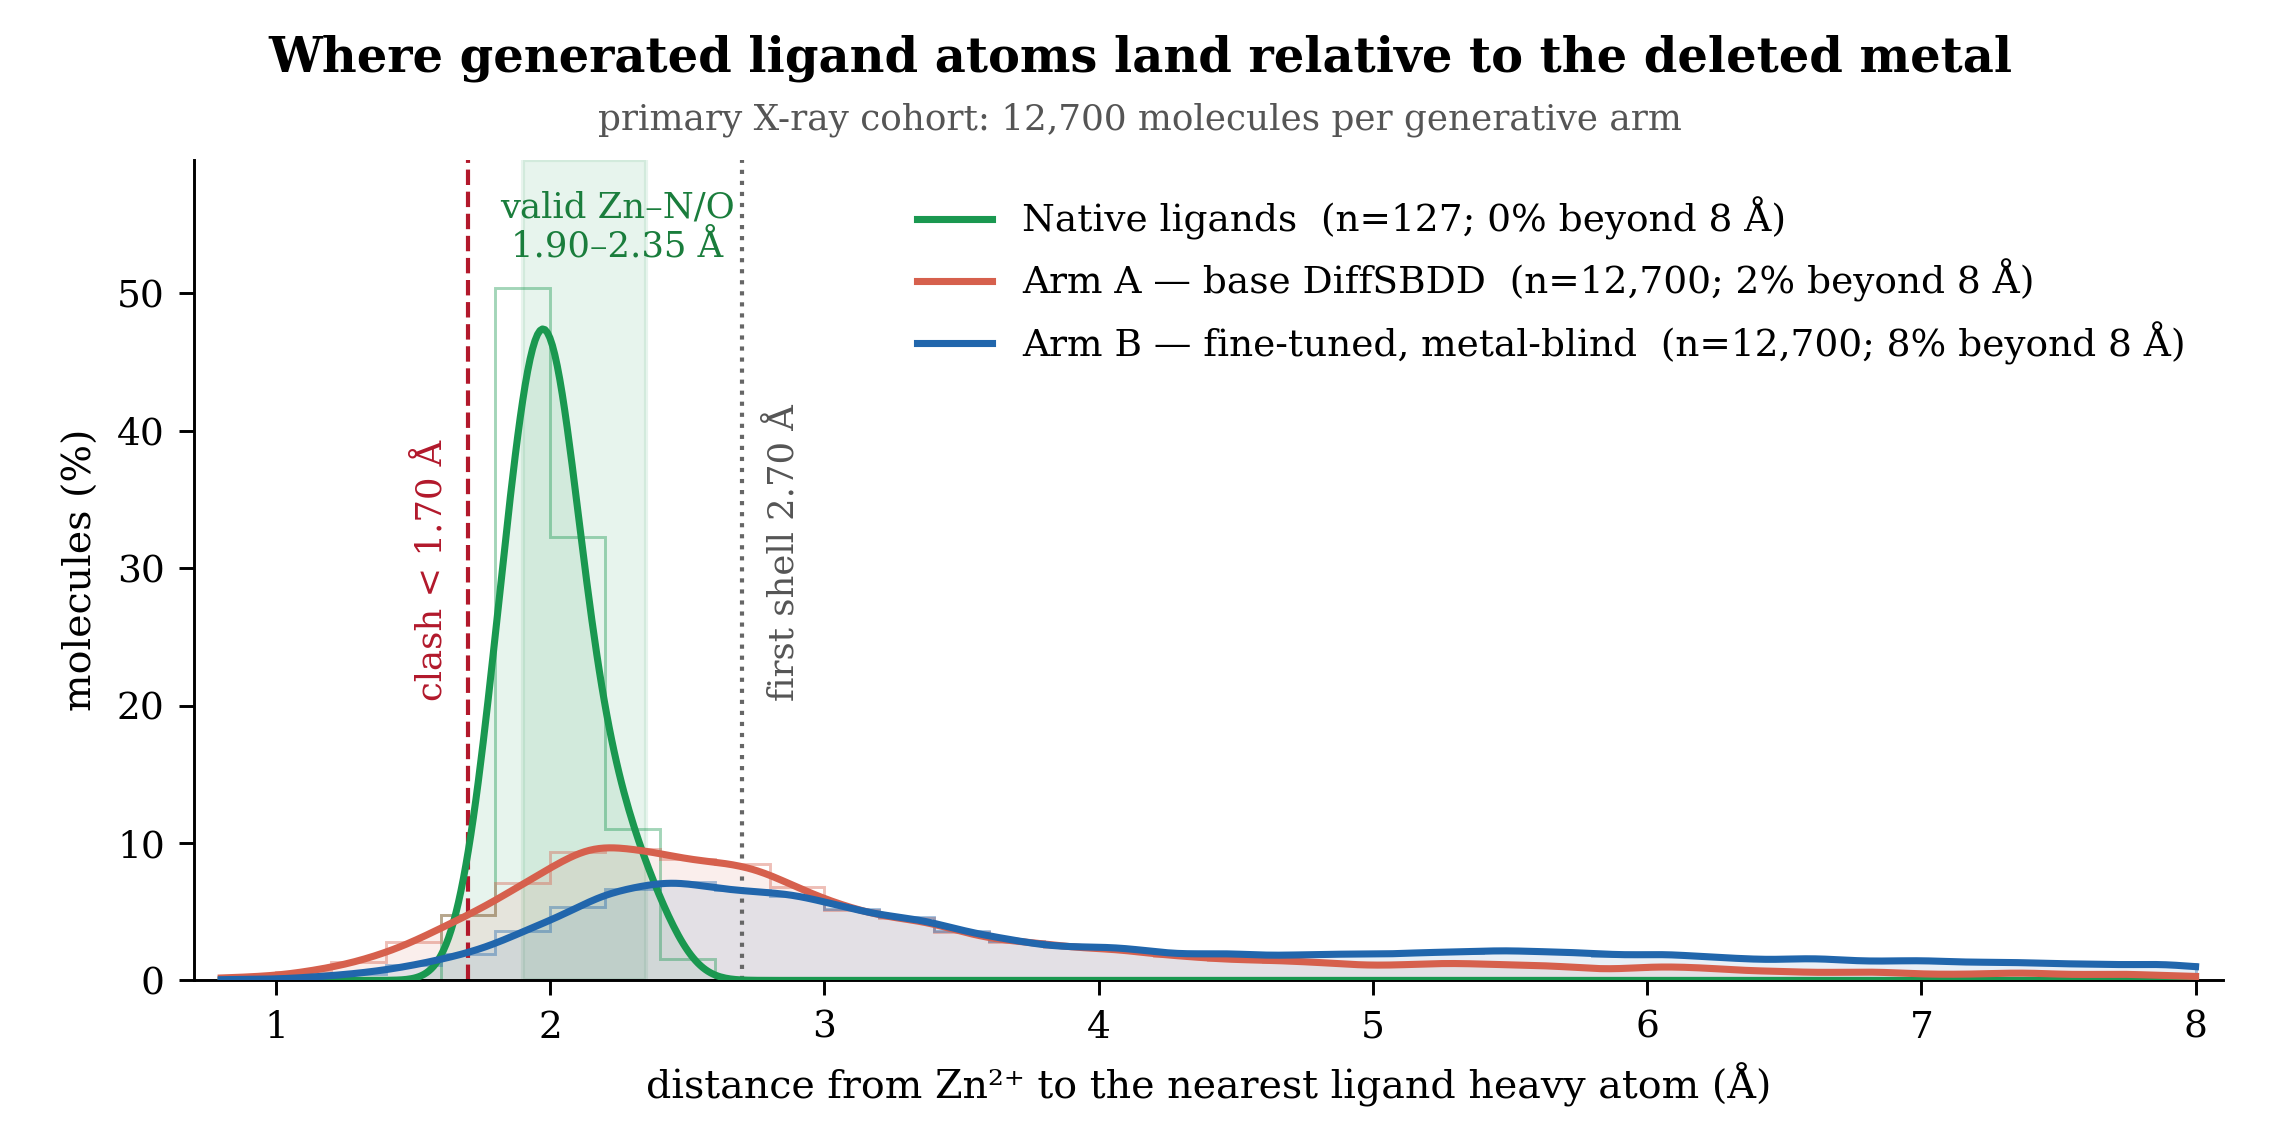
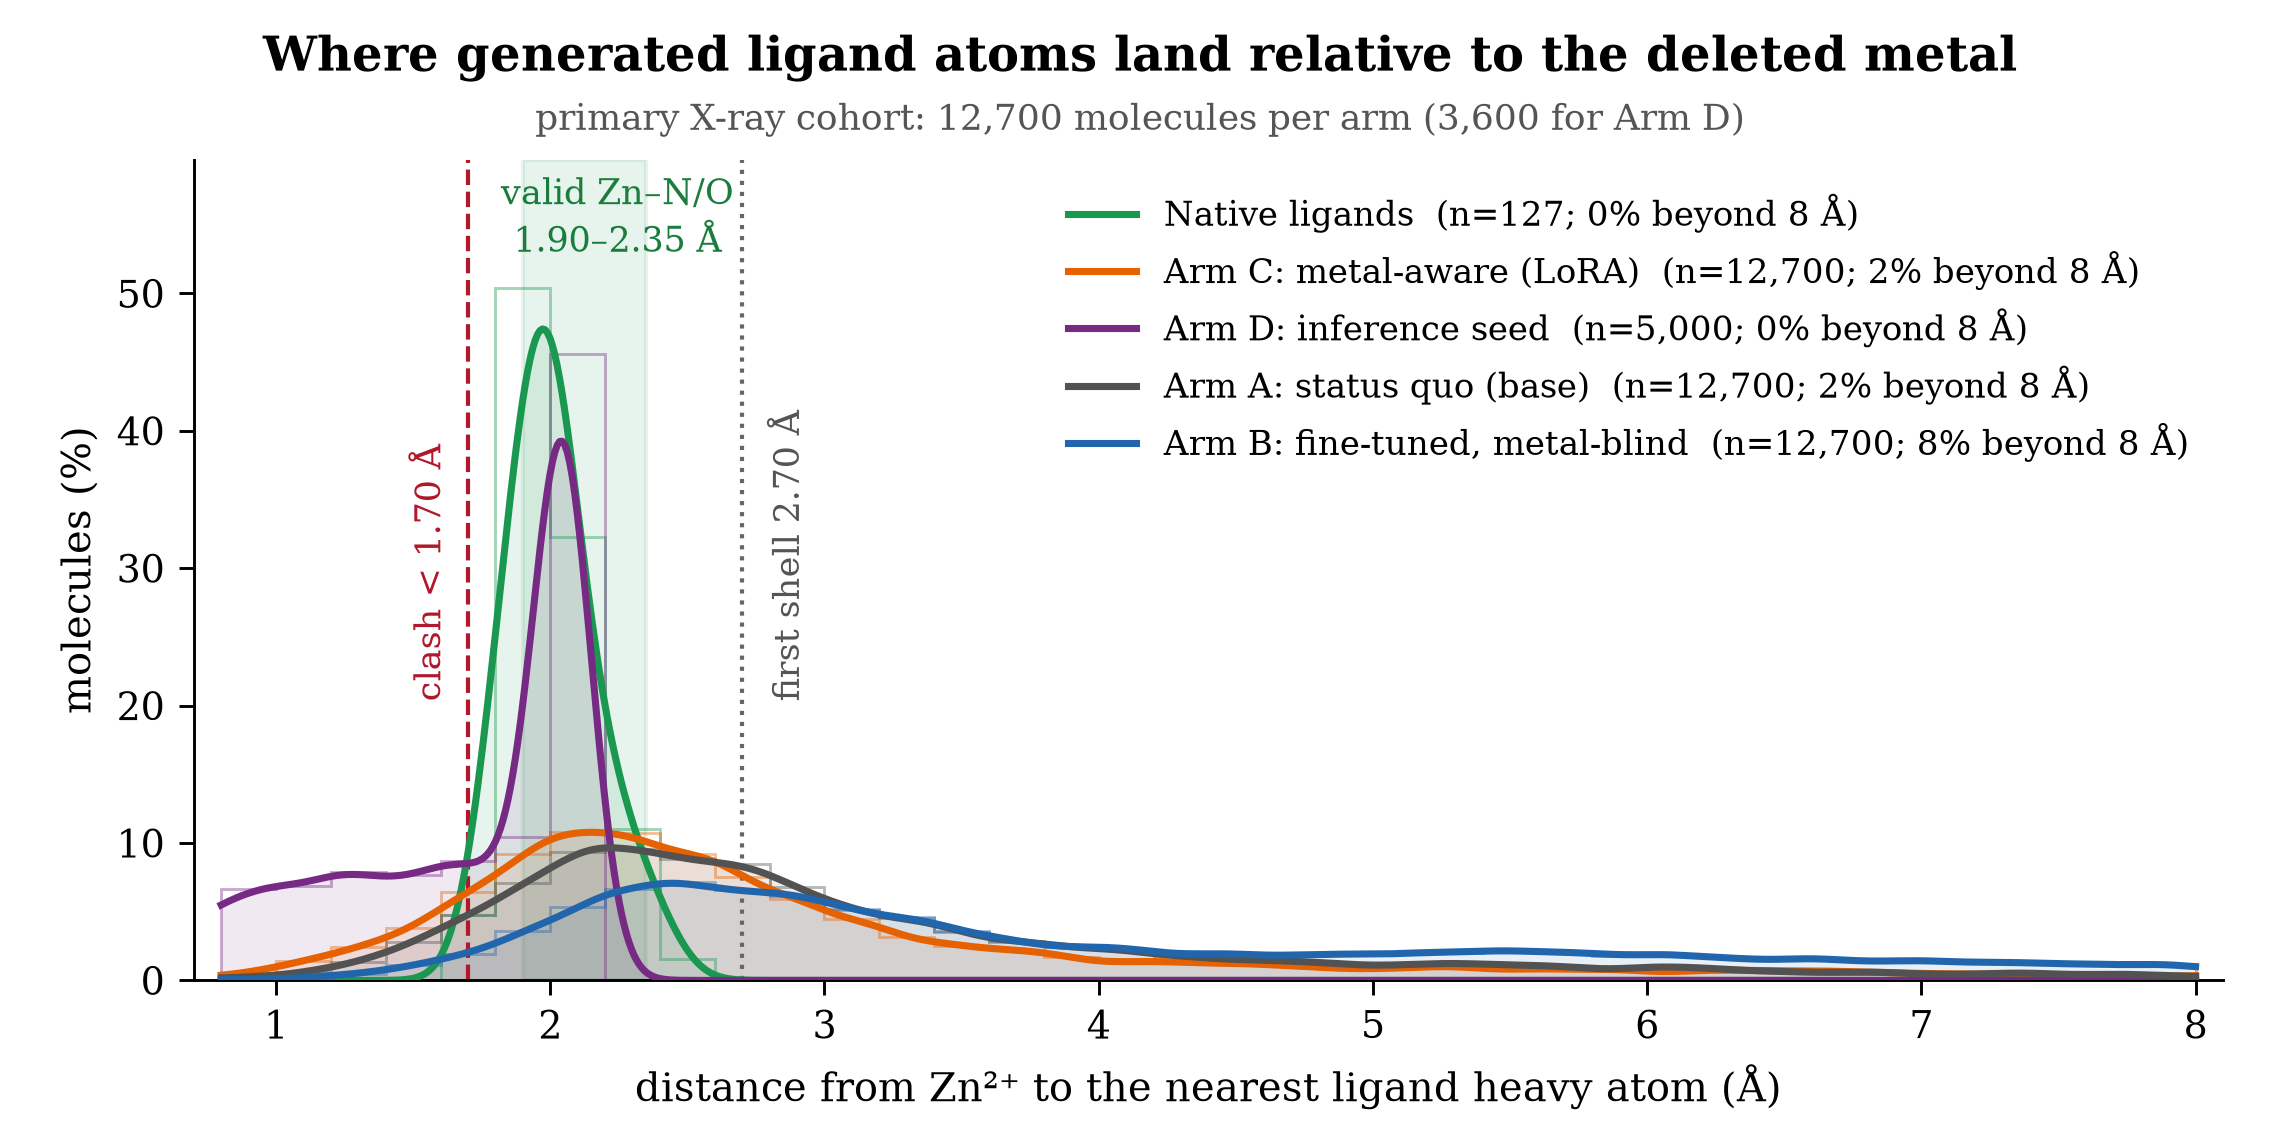
docs(figures): update figure suite for Arm D and high-contrast color palette

diff --git a/docs/figures/fig3_valid_coordination.py b/docs/figures/fig3_valid_coordination.py
@@ -21,7 +21,8 @@ from common import (
 )
 
 
-def make_figure(outdir: Path, arm_a: list[dict], arm_b: list[dict], native: list[dict],
+def make_figure(outdir: Path, arm_a: list[dict], arm_b: list[dict], arm_c: list[dict],
+                arm_d: list[dict], native: list[dict],
                 xray: set[str], pdb_to_cluster: dict[str, str]) -> Path:
     match = smarts_matches(REPO / "results/step1/generation/sdf", xray)
     kept = sum(1 for r in arm_a if not r.get("unreadable") and r["pdb_id"] in xray
@@ -32,20 +33,26 @@ def make_figure(outdir: Path, arm_a: list[dict], arm_b: list[dict], native: list
                    if match.get((r["pdb_id"], r["mol_index"]), False)]
 
     F = "has_valid_coordination"
+    F_d = "seed_excluded_has_valid_coordination"
+    arm_d_valid = [r for r in arm_d if not r.get("unreadable") and r["pdb_id"] in xray]
+
     bars = [
         ("Native ligands\n(C1 ceiling)", rate(native, F, xray),
          per_target_rate(native, F, xray), ARM_COLORS["native"], False),
+        ("Arm C\nmetal-aware (LoRA)", rate(arm_c, F, xray),
+         per_target_rate(arm_c, F, xray), ARM_COLORS["arm_c"], False),
         (f"Arm A + SMARTS filter\n(post-hoc, keeps {retained:.0f}% of molecules)",
          rate(smarts_recs, F, xray),
          per_target_rate(arm_a, F, xray, subset=match), ARM_COLORS["smarts"], True),
-        ("Arm A\nbase DiffSBDD", rate(arm_a, F, xray),
+        ("Arm A\nstatus quo (base DiffSBDD)", rate(arm_a, F, xray),
          per_target_rate(arm_a, F, xray), ARM_COLORS["arm_a"], False),
+        ("Arm D (seed-excluded)\ninference seed inpainting", rate(arm_d_valid, F_d, xray),
+         per_target_rate(arm_d_valid, F_d, xray), ARM_COLORS["arm_d"], False),
         ("Arm B\nfine-tuned, metal-blind", rate(arm_b, F, xray),
          per_target_rate(arm_b, F, xray), ARM_COLORS["arm_b"], False),
     ]
-
     with plt.rc_context(ACADEMIC_RC):
-        fig, ax = plt.subplots(figsize=(8.2, 3.8))
+        fig, ax = plt.subplots(figsize=(8.6, 4.9))
         ypos = np.arange(len(bars))[::-1]
         for y, (_, pooled, pertgt, color, is_subset) in zip(ypos, bars):
             by_cluster: dict[str, list[float]] = {}
@@ -87,10 +94,9 @@ def make_figure(outdir: Path, arm_a: list[dict], arm_b: list[dict], native: list
 
         fig.text(0.5, 0.97, "Valid coordination against the deleted catalytic Zn²⁺",
                  ha="center", va="top", fontsize=11.5, weight="bold")
-        fig.text(0.5, 0.91, "primary X-ray cohort: 21 sequence clusters, 127 targets, "
-                             "100 valid molecules per target", ha="center", va="top",
+        fig.text(0.5, 0.91, "primary X-ray cohort: 21 sequence clusters, 100 valid molecules per target "
+                             "(36 paired targets for Arm D)", ha="center", va="top",
                  fontsize=8.6, color="#555555")
-
         fig.subplots_adjust(left=0.34, right=0.98, top=0.85, bottom=0.14)
         out = outdir / "valid_coordination_by_arm.png"
         fig.savefig(out)
@@ -106,14 +112,15 @@ def main():
     outdir = REPO / args.outdir
     outdir.mkdir(parents=True, exist_ok=True)
 
-    _, xray, clusters = load_cohort()
+    targets, xray, clusters = load_cohort()
     arm_a = load_jsonl(REPO / "results/step1/checker/generated.jsonl")
     arm_b = load_jsonl(REPO / "results/step2/arm_b_generation/checker_results.jsonl")
+    arm_c = load_jsonl(REPO / "results/step2/arm_c_generation/checker_results.jsonl")
+    arm_d = load_jsonl(REPO / "results/step2/arm_d_generation/checker_results.jsonl")
     native = load_jsonl(REPO / "results/step1/checker/native_c1.jsonl")
     pdb_to_cluster = {p: f"C{i+1:02d}" for i, m in enumerate(clusters) for p in m}
 
-    make_figure(outdir, arm_a, arm_b, native, xray, pdb_to_cluster)
-
+    make_figure(outdir, arm_a, arm_b, arm_c, arm_d, native, xray, pdb_to_cluster)
 
 if __name__ == "__main__":
     main()

diff --git a/docs/figures/fig5_coordination_spheres.py b/docs/figures/fig5_coordination_spheres.py
@@ -22,13 +22,16 @@ from common import (
 )
 
 
-def make_figure(outdir: Path, arm_a: list[dict], arm_b: list[dict], native: list[dict],
+def make_figure(outdir: Path, arm_a: list[dict], arm_b: list[dict], arm_c: list[dict],
+                arm_d: list[dict], native: list[dict],
                 xray: set[str], n_show: int = 600, rmax: float = 4.6, seed: int = 7) -> Path:
     """Cross-section through coordination sphere (top) and aligned bilateral density profile (bottom)."""
     panels = [
         ("Native ligands", native, ARM_COLORS["native"]),
-        ("Arm A — base DiffSBDD", arm_a, ARM_COLORS["arm_a"]),
-        ("Arm B — fine-tuned, metal-blind", arm_b, ARM_COLORS["arm_b"]),
+        ("Arm C: metal-aware", arm_c, ARM_COLORS["arm_c"]),
+        ("Arm D: inference seed", arm_d, ARM_COLORS["arm_d"]),
+        ("Arm A: status quo", arm_a, ARM_COLORS["arm_a"]),
+        ("Arm B: metal-blind", arm_b, ARM_COLORS["arm_b"]),
     ]
     rng = np.random.default_rng(seed)
 
@@ -45,9 +48,9 @@ def make_figure(outdir: Path, arm_a: list[dict], arm_b: list[dict], native: list
         max_dens_sym = max(max_dens_sym, float(dens_sym.max()))
 
     with plt.rc_context(ACADEMIC_RC):
-        fig = plt.figure(figsize=(9.8, 6.0))
-        gs = fig.add_gridspec(2, 3, height_ratios=[1.0, 0.44], hspace=0.28, wspace=0.16,
-                               left=0.06, right=0.98, top=0.81, bottom=0.09)
+        fig = plt.figure(figsize=(15.8, 5.8))
+        gs = fig.add_gridspec(2, 5, height_ratios=[1.0, 0.44], hspace=0.28, wspace=0.15,
+                               left=0.04, right=0.985, top=0.81, bottom=0.09)
         top_y = max_dens_sym * 1.15
 
         for i, (label, recs, color) in enumerate(panels):
@@ -82,7 +85,7 @@ def make_figure(outdir: Path, arm_a: list[dict], arm_b: list[dict], native: list
             ax_top.set_aspect("equal")
             ax_top.set_axis_off()
             ax_top.set_title(f"{label}\n1.90–2.35 Å: {pct_valid:.1f}%   ·   < 1.70 Å: {pct_clash:.1f}%",
-                             fontsize=8.8, pad=6)
+                             fontsize=8.2, pad=5)
             ax_top.text(0, -rmax - 0.30, f"{pct_out:.0f}% beyond {rmax:.1f} Å",
                         ha="center", va="top", fontsize=7.5, color="#666666")
 
@@ -144,13 +147,13 @@ def main():
     outdir = REPO / args.outdir
     outdir.mkdir(parents=True, exist_ok=True)
 
-    _, xray, _ = load_cohort()
+    targets, xray, _ = load_cohort()
     arm_a = load_jsonl(REPO / "results/step1/checker/generated.jsonl")
     arm_b = load_jsonl(REPO / "results/step2/arm_b_generation/checker_results.jsonl")
+    arm_c = load_jsonl(REPO / "results/step2/arm_c_generation/checker_results.jsonl")
+    arm_d = load_jsonl(REPO / "results/step2/arm_d_generation/checker_results.jsonl")
     native = load_jsonl(REPO / "results/step1/checker/native_c1.jsonl")
 
-    make_figure(outdir, arm_a, arm_b, native, xray, n_show=args.n_show, rmax=args.rmax, seed=args.seed)
-
-
+    make_figure(outdir, arm_a, arm_b, arm_c, arm_d, native, xray, n_show=args.n_show, rmax=args.rmax, seed=args.seed)
 if __name__ == "__main__":
     main()

diff --git a/docs/figures/fig4_distance_distribution.py b/docs/figures/fig4_distance_distribution.py
@@ -21,12 +21,15 @@ from common import (
 )
 
 
-def make_figure(outdir: Path, arm_a: list[dict], arm_b: list[dict], native: list[dict],
+def make_figure(outdir: Path, arm_a: list[dict], arm_b: list[dict], arm_c: list[dict],
+                arm_d: list[dict], native: list[dict],
                 xray: set[str], kde_sigma: float = 0.10) -> Path:
     series = [
         ("Native ligands", native, ARM_COLORS["native"]),
-        ("Arm A — base DiffSBDD", arm_a, ARM_COLORS["arm_a"]),
-        ("Arm B — fine-tuned, metal-blind", arm_b, ARM_COLORS["arm_b"]),
+        ("Arm C: metal-aware (LoRA)", arm_c, ARM_COLORS["arm_c"]),
+        ("Arm D: inference seed", arm_d, ARM_COLORS["arm_d"]),
+        ("Arm A: status quo (base)", arm_a, ARM_COLORS["arm_a"]),
+        ("Arm B: fine-tuned, metal-blind", arm_b, ARM_COLORS["arm_b"]),
     ]
     bins = np.arange(0.8, 8.01, 0.2)
     width = bins[1] - bins[0]
@@ -67,9 +70,9 @@ def make_figure(outdir: Path, arm_a: list[dict], arm_b: list[dict], native: list
         ax.set_ylabel("molecules (%)", fontsize=9.5)
         fig.text(0.5, 0.97, "Where generated ligand atoms land relative to the deleted metal",
                  ha="center", va="top", fontsize=11.5, weight="bold")
-        fig.text(0.5, 0.91, "primary X-ray cohort: 12,700 molecules per generative arm",
+        fig.text(0.5, 0.91, "primary X-ray cohort: 12,700 molecules per arm (3,600 for Arm D)",
                  ha="center", va="top", fontsize=8.6, color="#555555")
-        ax.legend(frameon=False, loc="upper right", borderaxespad=0.6)
+        ax.legend(frameon=False, loc="upper right", borderaxespad=0.6, fontsize=8.2)
         fig.subplots_adjust(left=0.085, right=0.975, top=0.86, bottom=0.14)
         out = outdir / "zn_distance_distribution.png"
         fig.savefig(out)
@@ -86,13 +89,13 @@ def main():
     outdir = REPO / args.outdir
     outdir.mkdir(parents=True, exist_ok=True)
 
-    _, xray, _ = load_cohort()
+    targets, xray, _ = load_cohort()
     arm_a = load_jsonl(REPO / "results/step1/checker/generated.jsonl")
     arm_b = load_jsonl(REPO / "results/step2/arm_b_generation/checker_results.jsonl")
+    arm_c = load_jsonl(REPO / "results/step2/arm_c_generation/checker_results.jsonl")
+    arm_d = load_jsonl(REPO / "results/step2/arm_d_generation/checker_results.jsonl")
     native = load_jsonl(REPO / "results/step1/checker/native_c1.jsonl")
 
-    make_figure(outdir, arm_a, arm_b, native, xray, kde_sigma=args.kde_sigma)
-
-
+    make_figure(outdir, arm_a, arm_b, arm_c, arm_d, native, xray, kde_sigma=args.kde_sigma)
 if __name__ == "__main__":
     main()

diff --git a/docs/figures/make_readme_figures.py b/docs/figures/make_readme_figures.py
@@ -43,6 +43,8 @@ def main():
     targets, xray, clusters = load_cohort()
     arm_a = load_jsonl(REPO / "results/step1/checker/generated.jsonl")
     arm_b = load_jsonl(REPO / "results/step2/arm_b_generation/checker_results.jsonl")
+    arm_c = load_jsonl(REPO / "results/step2/arm_c_generation/checker_results.jsonl")
+    arm_d = load_jsonl(REPO / "results/step2/arm_d_generation/checker_results.jsonl")
     native = load_jsonl(REPO / "results/step1/checker/native_c1.jsonl")
     pdb_to_cluster = {p: f"C{i+1:02d}" for i, m in enumerate(clusters) for p in m}
 
@@ -51,12 +53,10 @@ def main():
     if args.figure in ("all", "2"):
         fig2_native_ligands.make_figure(outdir, targets, xray, clusters)
     if args.figure in ("all", "3"):
-        fig3_valid_coordination.make_figure(outdir, arm_a, arm_b, native, xray, pdb_to_cluster)
+        fig3_valid_coordination.make_figure(outdir, arm_a, arm_b, arm_c, arm_d, native, xray, pdb_to_cluster)
     if args.figure in ("all", "4"):
-        fig4_distance_distribution.make_figure(outdir, arm_a, arm_b, native, xray)
+        fig4_distance_distribution.make_figure(outdir, arm_a, arm_b, arm_c, arm_d, native, xray)
     if args.figure in ("all", "5"):
-        fig5_coordination_spheres.make_figure(outdir, arm_a, arm_b, native, xray)
-
-
+        fig5_coordination_spheres.make_figure(outdir, arm_a, arm_b, arm_c, arm_d, native, xray)
 if __name__ == "__main__":
     main()

diff --git a/docs/figures/fig1_coordination_site.py b/docs/figures/fig1_coordination_site.py
@@ -167,10 +167,10 @@ def make_figure(outdir: Path, targets: dict, pdb_id: str = "9ZSN") -> Path:
                 path_effects=[pe.withStroke(linewidth=2.5, foreground="#4c1d95")])
 
         # Header and subtitle
-        fig.text(0.5, 0.965, f"Catalytic zinc site — PDB {pdb_id} ({tgt['resolution']:.2f} Å), ligand {tgt['ligand_resname']}",
+        fig.text(0.5, 0.965, f"Catalytic zinc site: PDB {pdb_id} ({tgt['resolution']:.2f} Å), ligand {tgt['ligand_resname']}",
                  ha="center", va="top", fontsize=11.5, weight="bold", color="#111827")
-        fig.text(0.5, 0.915, f"{len(donors['protein_donors'])} protein sidechain donors and the ligand donor share one coordination sphere —\n"
-                             "the metal is deleted from the pocket every one of these models is conditioned on",
+        fig.text(0.5, 0.915, f"{len(donors['protein_donors'])} protein sidechain donors and the ligand donor share one coordination sphere.\n"
+                             "The metal is deleted from the pocket during model preprocessing.",
                  ha="center", va="top", fontsize=9.0, color="#374151")
 
         # Academic legend

diff --git a/docs/figures/common.py b/docs/figures/common.py
@@ -29,7 +29,9 @@ ELEMENT_COLOR = {
 ARM_COLORS = {
     "native": "#1a9850",
     "smarts": "#7570b3",
-    "arm_a": "#d6604d",
+    "arm_c": "#e66101",
+    "arm_d": "#762a83",
+    "arm_a": "#525252",
     "arm_b": "#2166ac",
 }
 
